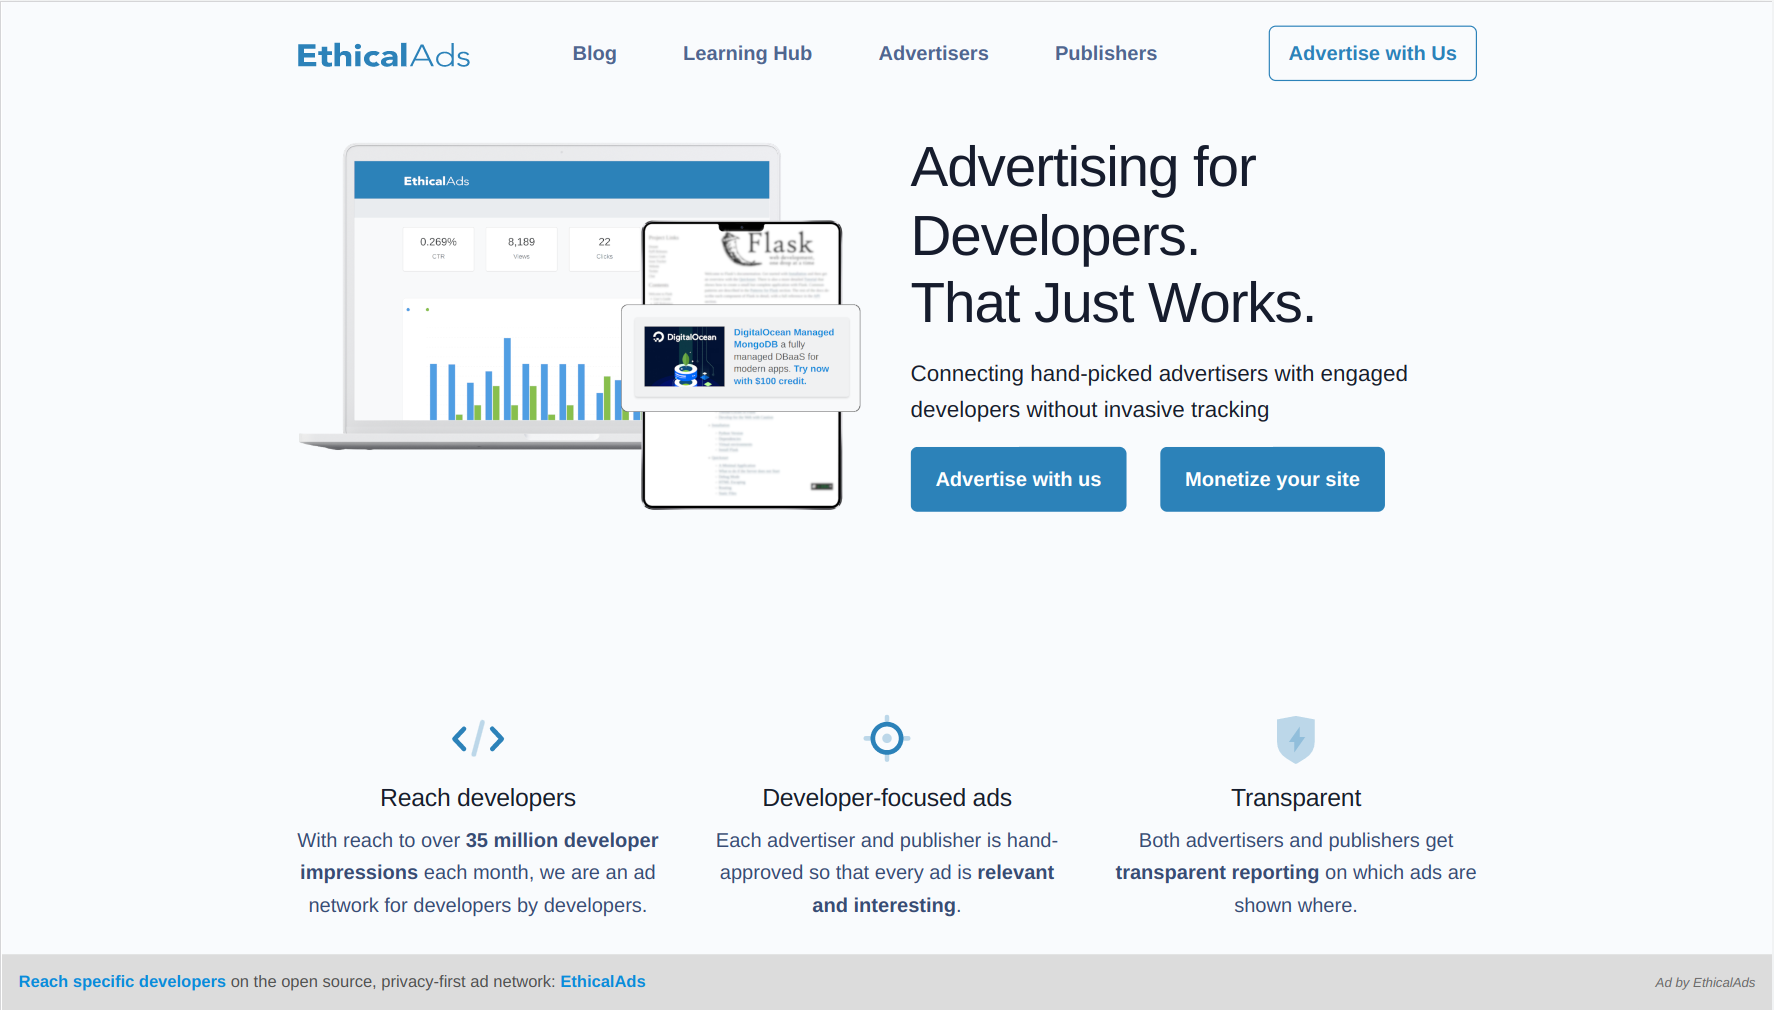
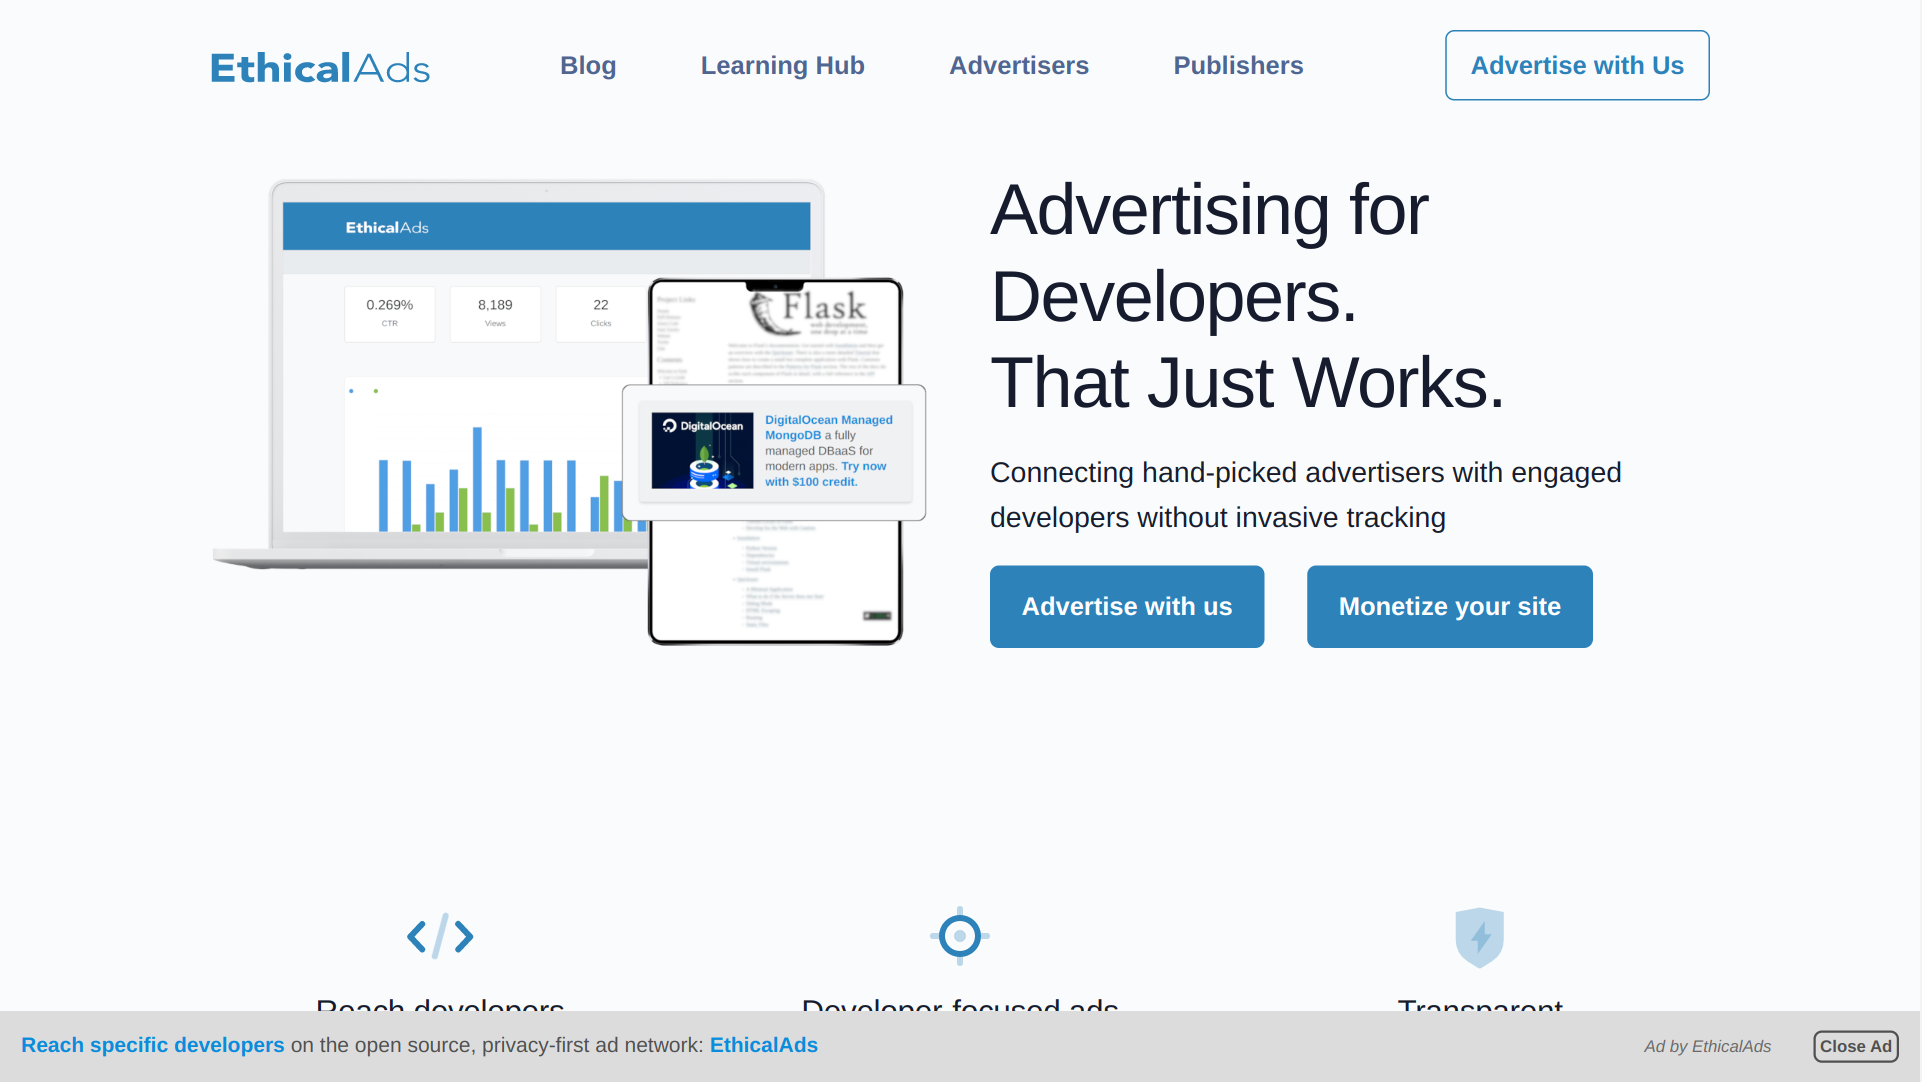
Make the callout hidden on mobile

diff --git a/styles.scss b/styles.scss
@@ -8,8 +8,9 @@ $width-image-vertical: 180px;
 // but below most modals
 $zindex-styles: 10;
 
-// Breakpoint (used for stickybox format)
+// Breakpoints (used for stickybox/fixedfooter formats)
 $breakpoint-ultrawide: 1300px;
+$breakpoint-mobile: 576px;
 
 // Colors
 $color-background: rgba(0, 0, 0, 0.03);
@@ -359,18 +360,26 @@ $color-bg-dark-stickybox: $color-link;
       padding: 1em;
       flex: initial;  // Use the initial width of this item - does not expend
 
-      // The close button is now a span rather than a link (a)
+      // Hide Ads by EthicalAds on mobile
+      @media (max-width: $breakpoint-mobile) {
+        display: none;
+      }
+    }
+
+    .ea-fixedfooter-hide {
+      cursor: pointer;
       color: $color-link;
+      padding: 1em;
+      flex: initial;  // Use the initial width of this item - does not expend
+      margin: auto 0;
 
-      .ea-fixedfooter-hide {
-        cursor: pointer;
-
-        // Make the close button - button-like
+      // Make the close button - button-like
+      span {
+        padding: 0.25em;
         font-size: 0.8em;
         font-weight: bold;
         border: 0.15em solid $color-link;
         border-radius: 0.5em;
-        padding: 0.25em;
         white-space: nowrap;
       }
     }
@@ -380,12 +389,9 @@ $color-bg-dark-stickybox: $color-link;
     .ea-type-text {
       background: $color-bg-dark-stickybox;
 
-      .ea-callout {
+      .ea-fixedfooter-hide span {
         color: $color-link-dark;
-
-        .ea-fixedfooter-hide {
-          border-color: $color-link-dark;
-        }
+        border-color: $color-link-dark;
       }
     }
   }
@@ -395,12 +401,9 @@ $color-bg-dark-stickybox: $color-link;
       .ea-type-text {
         background: $color-bg-dark-stickybox;
 
-        .ea-callout {
+        .ea-fixedfooter-hide span {
           color: $color-link-dark;
-
-          .ea-fixedfooter-hide {
-            border-color: $color-link-dark;
-          }
+          border-color: $color-link-dark;
         }
       }
     }

diff --git a/index.js b/index.js
@@ -549,17 +549,20 @@ export class Placement {
       element.appendChild(hideButton);
     }
 
-    // Stickybox: https://ethical-ad-client.readthedocs.io/en/latest/#fixedfooter
+    // FixedFooter: https://ethical-ad-client.readthedocs.io/en/latest/#fixedfooter
     if (this.style === "fixedfooter") {
-      element.querySelector('.ea-callout a').remove();
+      //element.querySelector('.ea-callout a').remove();
+
+      let container = document.createElement("div");
+      container.setAttribute("class", "ea-fixedfooter-hide");
+      element.appendChild(container);
 
       let hideButton = document.createElement("span");
-      hideButton.setAttribute("class", "ea-fixedfooter-hide");
       hideButton.append("Close Ad");
       hideButton.addEventListener("click", function () {
         document.querySelector("[data-ea-publisher]").remove();
       });
-      element.querySelector('.ea-callout').appendChild(hideButton);
+      container.appendChild(hideButton);
     }
   }
 }

diff --git a/docs/index.rst b/docs/index.rst
@@ -290,12 +290,12 @@ Using our StickyBox style:
    <div data-ea-publisher="..." data-ea-type="image" data-ea-style="stickybox"></div>
 
 
-Screenshot
-``````````
-
-.. image:: _static/stickybox.gif
+.. figure:: _static/stickybox.gif
     :align: center
     :width: 100%
+
+    This Stickybox placement as it transitions from ultrawide width where the placement floats
+    to smaller widths where it is inline.
 
 
 FixedFooter
@@ -316,12 +316,11 @@ Using our FixedFooter style:
    <div data-ea-publisher="..." data-ea-type="text" data-ea-style="fixedfooter"></div>
 
 
-Screenshot
-``````````
-
-.. image:: _static/fixedfooter.png
+.. figure:: _static/fixedfooter.png
     :align: center
     :width: 100%
+
+    This FixedFooter placement on our homepage
 
 
 .. _placements:
